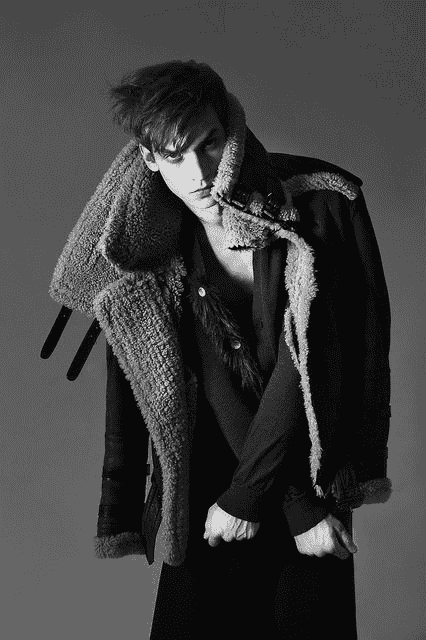
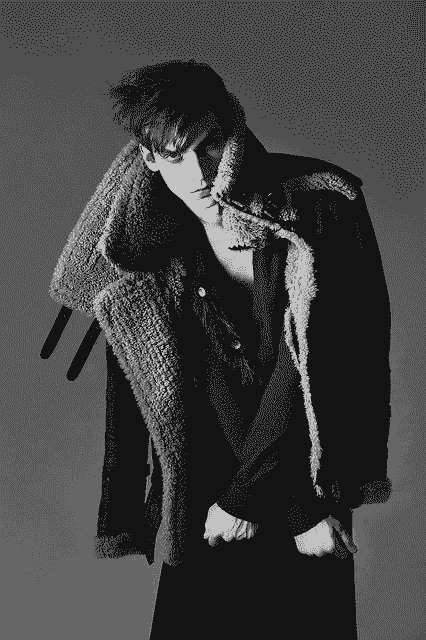
perf: optimize images and add lazy loading

diff --git a/src/index.html b/src/index.html
@@ -4,18 +4,23 @@
     <meta charset="UTF-8" />
     <meta name="viewport" content="width=device-width, initial-scale=1.0" />
     <title>Modellink</title>
-    <link rel="preconnect" href="https://fonts.googleapis.com" />
-    <link rel="preconnect" href="https://fonts.gstatic.com" crossorigin />
     <link
-    href="https://fonts.googleapis.com/css2?family=Playfair+Display:wght@500;600;700&family=Roboto:wght@300;400;500&display=swap"
-    rel="stylesheet"
+      href="https://fonts.googleapis.com/css2?family=Playfair+Display:wght@700&family=Roboto:wght@400;500&display=swap"
+      rel="stylesheet"
     />
     <link rel="stylesheet" href="./css/style.css" />
   </head>
   <body>
     <!-- NAVBAR -->
     <nav class="navbar">
-      <div class="nav-logo"><img src="./assets/images/website-logo.png" class="logo-img"/></div>
+      <div class="nav-logo">
+        <img
+          loading="lazy"
+          src="./assets/images/website-logo.png"
+          alt="website-logo"
+          class="logo-img"
+        />
+      </div>
       <ul class="nav-links">
         <li><a href="#">Home</a></li>
         <li><a href="#models">Models</a></li>
@@ -25,100 +30,97 @@
     </nav>
     <!-- HERO SECTION -->
     <section class="hero">
-            <div class="hero-content">
-                <h1 class="playfair-font">Where Talent Meets Opportunity</h1>
-                <p>Connecting rising models with leading agencies and global brands.</p>
-                <p class="tagline">Discover. Connect. Shine.</p>
-            </div>
+      <div class="hero-content">
+        <h1 class="playfair-font">Where Talent Meets Opportunity</h1>
+        <p>Connecting rising models with leading agencies and global brands.</p>
+        <p class="tagline">Discover. Connect. Shine.</p>
+      </div>
     </section>
-  <!--Models Section-->
-  <section id="models" class="models-section">
-    <h2 class="section-title">Featured Models</h2>
+    <!--Models Section-->
+    <section id="models" class="models-section">
+      <h2 class="section-title">Featured Models</h2>
 
-    <div class="models-wrapper">
+      <div class="models-wrapper">
+        <div class="model-card">
+          <img loading="lazy" src="./assets/images/model1.png" alt="Model 1" />
+          <h3>Mia Torres</h3>
+          <p>Editorial • Runway</p>
+        </div>
 
-      <div class="model-card">
-        <img src="./assets/images/model1.png" alt="Model 1">
-        <h3>Mia Torres</h3>
-        <p>Editorial • Runway</p>
+        <div class="model-card">
+          <img loading="lazy" src="./assets/images/model2.png" alt="Model 2" />
+          <h3>Ethan Cole</h3>
+          <p>Commercial • Fashion</p>
+        </div>
+
+        <div class="model-card">
+          <img loading="lazy" src="./assets/images/model3.png" alt="Model 3" />
+          <h3>Lara Chen</h3>
+          <p>High Fashion • Portrait</p>
+        </div>
       </div>
+    </section>
 
-      <div class="model-card">
-        <img src="./assets/images/model2.png" alt="Model 2">
-        <h3>Ethan Cole</h3>
-        <p>Commercial • Fashion</p>
+    <!--Agencies Section-->
+    <section id="agencies" class="agencies-section">
+      <h2 class="section-title">Top Agencies</h2>
+
+      <div class="agencies-grid">
+        <div class="agency-card">
+          <h3>Elite Model Group</h3>
+          <p>Paris, France</p>
+        </div>
+
+        <div class="agency-card">
+          <h3>Vision Models</h3>
+          <p>Los Angeles, USA</p>
+        </div>
+
+        <div class="agency-card">
+          <h3>IMG Models</h3>
+          <p>New York, USA</p>
+        </div>
       </div>
+    </section>
 
-      <div class="model-card">
-        <img src="./assets/images/model3.png" alt="Model 3">
-        <h3>Lara Chen</h3>
-        <p>High Fashion • Portrait</p>
+    <!--About Section-->
+    <section id="about" class="about-section">
+      <h2 class="section-title">About Modellink</h2>
+
+      <div class="about-wrapper">
+        <div class="about-text">
+          <p>
+            Modellink is a modern platform connecting talented models with
+            top-tier agencies worldwide. Our mission is to make discovery
+            effortless and empower rising talent by giving them access to global
+            opportunities.
+          </p>
+          <p>
+            Whether you’re an aspiring model or a leading agency, Modellink
+            provides a curated space where talent and professionalism meet.
+          </p>
+        </div>
+        <div class="about-image">
+          <img loading="lazy" src="./assets/images/about.png" alt="About Modellink Platform" />
+        </div>
       </div>
+    </section>
+    <!-- Footer Section -->
+    <footer class="footer">
+      <div class="footer-container">
+        <div class="footer-logo">
+          <img loading="lazy" src="./assets/images/website-logo.png" alt="website Logo" />
+        </div>
 
-    </div>
-  </section>
+        <ul class="footer-links">
+          <li><a href="#">Home</a></li>
+          <li><a href="#models">Models</a></li>
+          <li><a href="#agencies">Agencies</a></li>
+          <li><a href="#about">About</a></li>
+        </ul>
 
-  <!--Agencies Section-->
-  <section id="agencies" class="agencies-section">
-    <h2 class="section-title">Top Agencies</h2>
-
-    <div class="agencies-grid">
-      <div class="agency-card">
-        <h3>Elite Model Group</hh3>
-        <p>Paris, France</p>
+        <p class="footer-text">© 2025 Modellink. All rights reserved.</p>
       </div>
-
-      <div class="agency-card">
-        <h3>Vision Models</h3>
-        <p>Los Angeles, USA</p>
-      </div>
-
-      <div class="agency-card">
-        <h3>IMG Models</h3>
-        <p>New York, USA</p>
-      </div>
-    </div>
-  </section>
-
-  <!--About Section-->
-  <section id="about" class="about-section">
-    <h2 class="section-title">About Modellink</h2>
-
-    <div class="about-wrapper">
-      <div class="about-text">
-        <p>
-          Modellink is a modern platform connecting talented models with top-tier 
-          agencies worldwide. Our mission is to make discovery effortless and 
-          empower rising talent by giving them access to global opportunities.
-        </p>
-        <p>
-          Whether you’re an aspiring model or a leading agency, Modellink provides 
-          a curated space where talent and professionalism meet.
-        </p>
-      </div>
-      <div class="about-image">
-        <img src="./assets/images/about.png" alt="About Modellink">
-      </div>
-    </div>
-  </section>
-  <!-- Footer Section -->
-<footer class="footer">
-  <div class="footer-container">
-
-    <div class="footer-logo">
-      <img src="./assets/images/website-logo.png" alt="website Logo" />
-    </div>
-
-    <ul class="footer-links">
-      <li><a href="#">Home</a></li>
-      <li><a href="#models">Models</a></li>
-      <li><a href="#agencies">Agencies</a></li>
-      <li><a href="#about">About</a></li>
-    </ul>
-
-    <p class="footer-text">© 2025 Modellink. All rights reserved.</p>
-
-  </div>
- </footer>
- </body>
+    </footer>
+  </body>
 </html>

diff --git a/src/css/color.css b/src/css/color.css
@@ -6,7 +6,6 @@
   --gray-light: hsl(0, 6%, 84%);
   --dark-100: #282727;
   --dark-200: #1a1a1a;
-  --gray-light: hsl(0, 6%, 84%);
   --overlay-dark: rgba(44, 39, 39, 0.45);
   --pink-100: #ffebf1;
   --black-50: rgba(14, 14, 14, 0.55);
